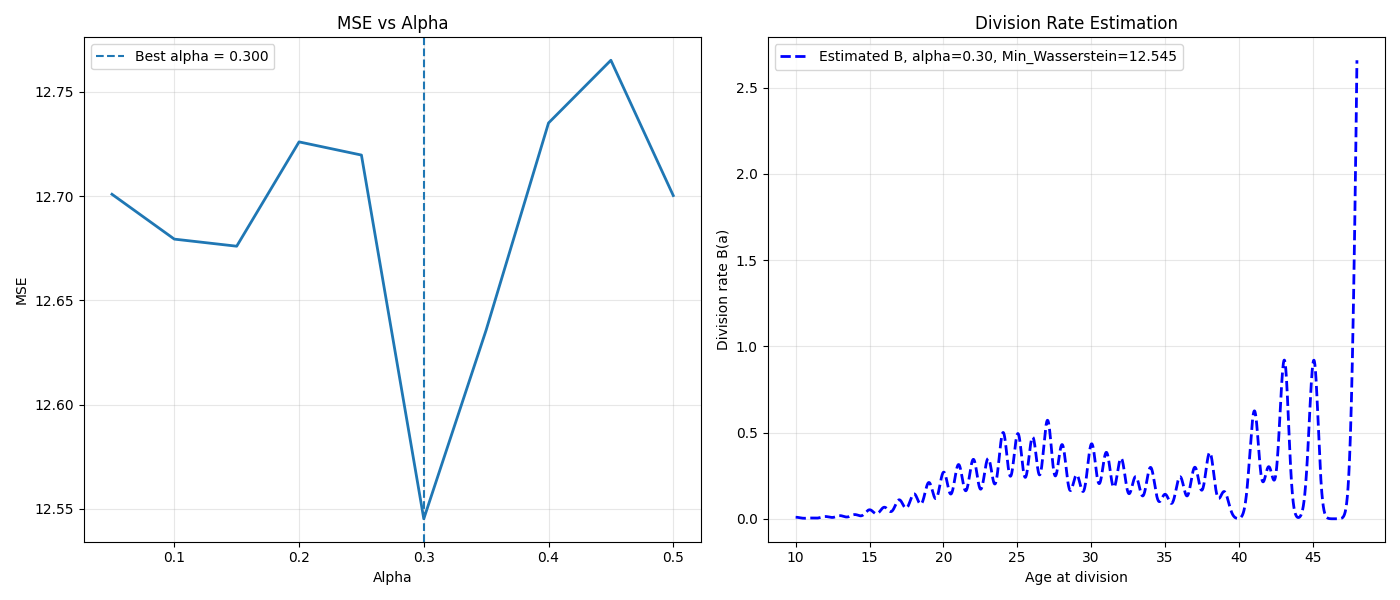
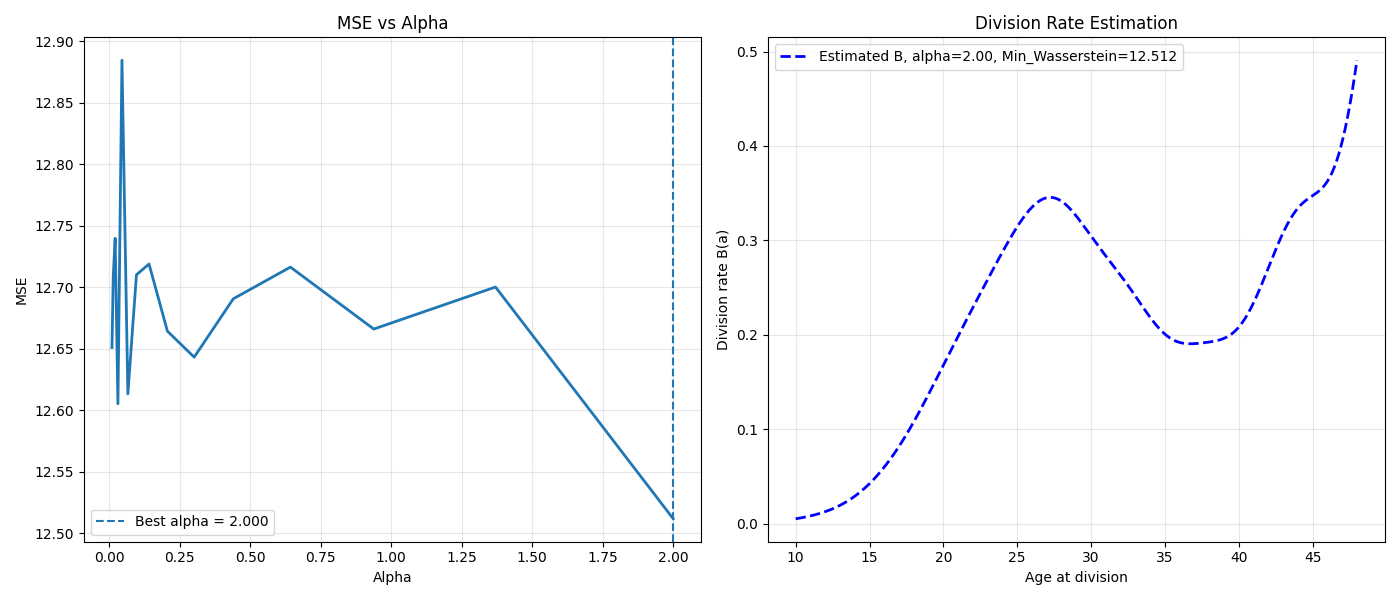
bigger alpha seems better for estimation of div rate

diff --git a/tmp_estimators.py b/tmp_estimators.py
@@ -43,7 +43,7 @@ Xbar = np.mean(real_Xb)
 
 growth_rate = 0.032 #according to regression
 
-alpha_grid = np.linspace(0.05, 0.5, 10) #TODO: maybe choose better grid !!!!!
+alpha_grid = np.logspace(np.log10(0.01), np.log10(2.0), num=15) #TODO: maybe choose better grid !!!!!
 
 
 best_alpha, dist_hist, Best_B_hat = grid_search_alpha(real_A, alpha_grid, simulate_lineage_age, growth_rate, a_max, Xbar)

diff --git a/simulation.py b/simulation.py
@@ -41,7 +41,7 @@ def simulate_lineage_age(B, num_samples, growth_rate, a_max, Xbar):
     Xd = []
     X_current = Xbar
 
-    for _ in tqdm(range(num_samples)):
+    for _ in range(num_samples): #tqdm(range(num_samples)):
         a_div = sample_division_age(B, a_max, B_max)
         x_div = X_current*np.exp(growth_rate*a_div)
         A.append(np.round(a_div,3))
